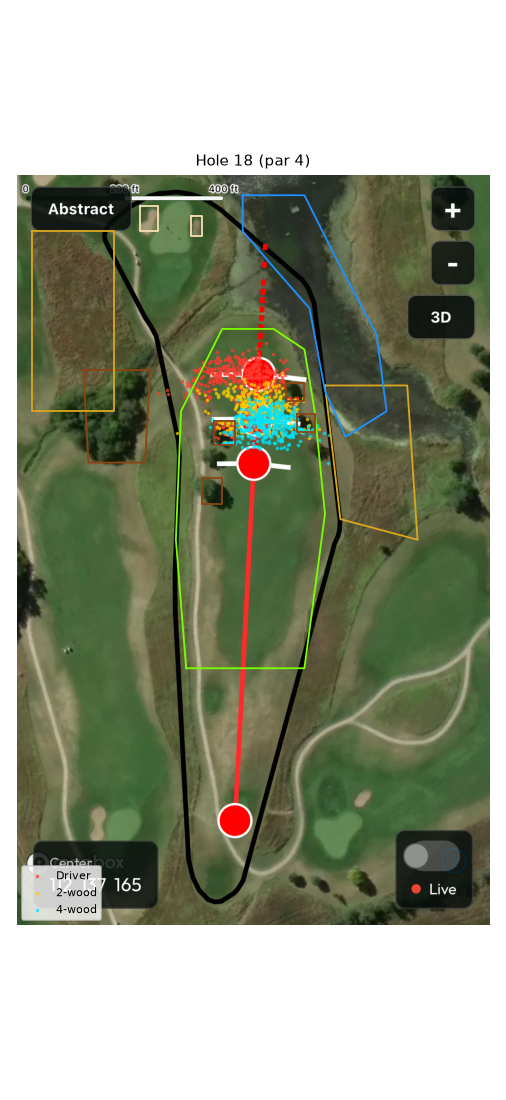
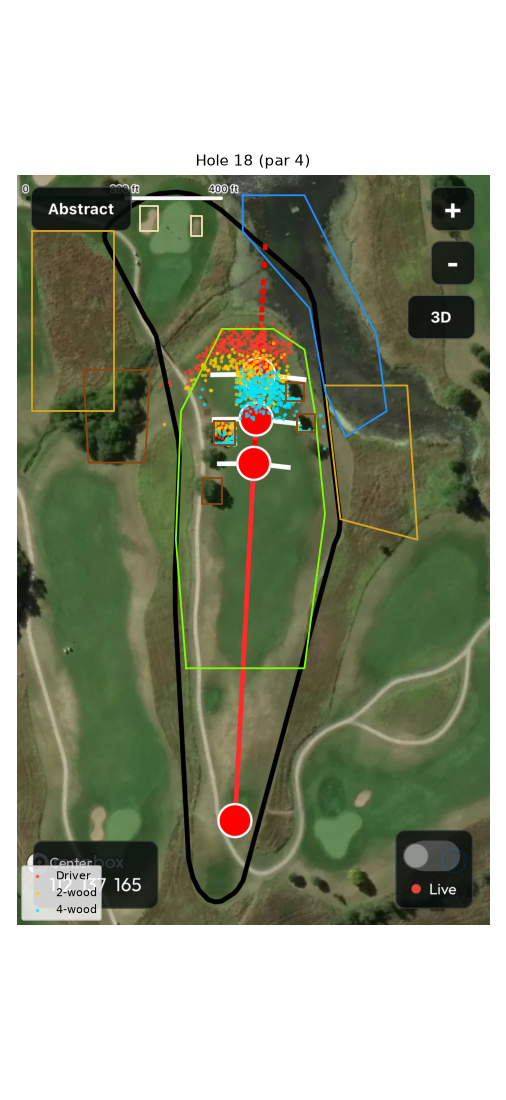
Hole 18: model downhill run (+20 yds roll, stops at trees)
Claude-Session: https://claude.ai/code/session_011rKvZuUcU769YfPfktPsds

Changed region(s): [[0.3557, 0.2782, 0.6522, 0.4327]]

diff --git a/mozingo/tee_strategy.py b/mozingo/tee_strategy.py
@@ -261,7 +261,7 @@ HOLES = {
             ("sand", [(422, 828), (447, 828), (447, 872), (422, 872)]),                   # short-right of green
         ]),
     18: dict(
-        par=4, image="hole18.png", length=407,
+        par=4, image="hole18.png", length=407, extra_roll=20,   # downhill: +10-30 yds of run
         tee=(425, 1795), dot270=(466, 1015), green=(300, 665),   # dogleg left
         zones=[
             ("fairway", [(330, 1500), (560, 1500), (600, 1200), (580, 1000), (560, 880), (500, 840),
@@ -320,7 +320,7 @@ def simulate(hole_no, club, aim_lat=0.0, n=N_SHOTS, z=None):
     # Roll out along the flight line in 2-yd steps: full roll on fairway,
     # ROUGH_ROLL of it in rough, and the ball stops dead in any hazard.
     heading = (pts - tee) / np.linalg.norm(pts - tee, axis=1)[:, None]
-    roll_left = np.full(n, float(total - carry))
+    roll_left = np.full(n, float(total - carry + h.get("extra_roll", 0)))  # e.g. downhill landing
     roll_left[lie == "rough"] *= ROUGH_ROLL
     while True:
         moving = (roll_left > 0) & ~np.isin(lie, HAZARDS)

diff --git a/mozingo/output/stats_report.md b/mozingo/output/stats_report.md
@@ -6,82 +6,96 @@ SG:OTT = tour expected strokes from the tee minus (1 + expected strokes after th
 
 | Hole | Club | Aim | Fairway | Approach | SG:OTT | Diff vs best (95% CI) | Best in % of what-if worlds |
 |---|---|---|---|---|---|---|---|
-| 1 | Driver | +2.5 | 76% | 75 | +0.090 | +0.031 (+0.027 to +0.034) | 10% |
-| 1 | 2-wood | +2.5 | 87% | 93 | +0.112 | +0.008 (+0.006 to +0.010) | 20% |
-| 1 | **4-wood** | +2.5 | 94% | 103 | +0.120 | — | 70% |
-| 2 | Driver | -10.0 | 73% | 59 | +0.077 | +0.030 (+0.027 to +0.033) | 19% |
-| 2 | 2-wood | -10.0 | 83% | 74 | +0.070 | +0.038 (+0.035 to +0.040) | 2% |
-| 2 | **4-wood** | -5.0 | 95% | 81 | +0.107 | — | 79% |
-| 3 | **Driver** | -12.5 | 89% | 219 | +0.177 | — | 98% |
-| 3 | 2-wood | -15.0 | 94% | 238 | +0.067 | +0.110 (+0.109 to +0.111) | 2% |
-| 3 | 4-wood | -17.5 | 98% | 248 | +0.013 | +0.163 (+0.162 to +0.165) | 0% |
-| 4 | **Driver** | +0.0 | 89% | 63 | +0.190 | — | 97% |
-| 4 | 2-wood | +0.0 | 92% | 83 | +0.146 | +0.044 (+0.044 to +0.045) | 2% |
-| 4 | 4-wood | +0.0 | 96% | 92 | +0.132 | +0.059 (+0.058 to +0.060) | 1% |
-| 6 | **Driver** | -5.0 | 96% | 192 | +0.186 | — | 98% |
-| 6 | 2-wood | -10.0 | 96% | 212 | +0.061 | +0.124 (+0.123 to +0.126) | 2% |
-| 6 | 4-wood | -12.5 | 98% | 222 | +0.008 | +0.178 (+0.177 to +0.179) | 0% |
-| 7 | Driver | +2.5 | 74% | 132 | -0.060 | +0.082 (+0.077 to +0.087) | 8% |
-| 7 | 2-wood | +5.0 | 82% | 151 | -0.038 | +0.060 (+0.057 to +0.064) | 6% |
-| 7 | **4-wood** | +7.5 | 94% | 159 | +0.022 | — | 86% |
-| 9 | **Driver** | +2.5 | 92% | 52 | +0.184 | — | 78% |
-| 9 | 2-wood | +5.0 | 96% | 71 | +0.140 | +0.044 (+0.042 to +0.046) | 5% |
-| 9 | 4-wood | +5.0 | 99% | 80 | +0.130 | +0.054 (+0.051 to +0.057) | 17% |
-| 10 | **Driver** | -5.0 | 93% | 91 | +0.152 | — | 77% |
-| 10 | 2-wood | -7.5 | 96% | 111 | +0.120 | +0.032 (+0.031 to +0.033) | 8% |
-| 10 | 4-wood | -7.5 | 98% | 120 | +0.114 | +0.037 (+0.035 to +0.040) | 15% |
-| 12 | **Driver** | +0.0 | 82% | 228 | +0.098 | — | 98% |
-| 12 | 2-wood | -10.0 | 88% | 246 | -0.019 | +0.117 (+0.115 to +0.118) | 2% |
-| 12 | 4-wood | -12.5 | 93% | 255 | -0.054 | +0.151 (+0.150 to +0.153) | 0% |
-| 13 | Driver | +2.5 | 74% | 103 | +0.085 | +0.004 (+0.001 to +0.006) | 41% |
-| 13 | 2-wood | +2.5 | 88% | 119 | +0.082 | +0.006 (+0.004 to +0.008) | 15% |
-| 13 | **4-wood** | +2.5 | 95% | 127 | +0.088 | — | 44% |
+| 1 | Driver | +2.5 | 77% | 77 | +0.092 | +0.024 (+0.021 to +0.027) | 8% |
+| 1 | 2-wood | +2.5 | 87% | 95 | +0.110 | +0.005 (+0.004 to +0.007) | 17% |
+| 1 | **4-wood** | +2.5 | 94% | 104 | +0.115 | — | 75% |
+| 2 | Driver | -10.0 | 74% | 61 | +0.071 | +0.031 (+0.027 to +0.034) | 17% |
+| 2 | 2-wood | -7.5 | 84% | 75 | +0.069 | +0.032 (+0.030 to +0.034) | 5% |
+| 2 | **4-wood** | -5.0 | 95% | 83 | +0.102 | — | 78% |
+| 3 | **Driver** | -12.5 | 89% | 220 | +0.162 | — | 99% |
+| 3 | 2-wood | -17.5 | 94% | 240 | +0.052 | +0.109 (+0.108 to +0.110) | 1% |
+| 3 | 4-wood | -17.5 | 98% | 249 | -0.000 | +0.162 (+0.160 to +0.163) | 0% |
+| 4 | **Driver** | +0.0 | 89% | 65 | +0.184 | — | 97% |
+| 4 | 2-wood | +0.0 | 91% | 84 | +0.140 | +0.044 (+0.043 to +0.044) | 3% |
+| 4 | 4-wood | +0.0 | 96% | 93 | +0.126 | +0.057 (+0.057 to +0.058) | 0% |
+| 6 | **Driver** | -7.5 | 96% | 194 | +0.166 | — | 97% |
+| 6 | 2-wood | -10.0 | 96% | 214 | +0.046 | +0.120 (+0.118 to +0.121) | 3% |
+| 6 | 4-wood | -12.5 | 98% | 224 | -0.006 | +0.172 (+0.170 to +0.173) | 0% |
+| 7 | Driver | +2.5 | 74% | 134 | -0.065 | +0.082 (+0.077 to +0.087) | 8% |
+| 7 | 2-wood | +5.0 | 84% | 152 | -0.033 | +0.050 (+0.047 to +0.054) | 8% |
+| 7 | **4-wood** | +7.5 | 94% | 161 | +0.017 | — | 84% |
+| 9 | **Driver** | +2.5 | 92% | 54 | +0.176 | — | 72% |
+| 9 | 2-wood | +5.0 | 97% | 73 | +0.135 | +0.041 (+0.039 to +0.043) | 5% |
+| 9 | 4-wood | +5.0 | 99% | 82 | +0.125 | +0.051 (+0.049 to +0.054) | 23% |
+| 10 | **Driver** | -5.0 | 93% | 93 | +0.145 | — | 72% |
+| 10 | 2-wood | -7.5 | 96% | 112 | +0.113 | +0.032 (+0.031 to +0.034) | 7% |
+| 10 | 4-wood | -7.5 | 98% | 121 | +0.108 | +0.037 (+0.035 to +0.040) | 21% |
+| 12 | **Driver** | -2.5 | 83% | 231 | +0.073 | — | 97% |
+| 12 | 2-wood | -12.5 | 90% | 250 | -0.030 | +0.103 (+0.101 to +0.105) | 3% |
+| 12 | 4-wood | -12.5 | 93% | 256 | -0.061 | +0.135 (+0.133 to +0.137) | 0% |
+| 13 | Driver | +2.5 | 76% | 105 | +0.082 | +0.001 (-0.001 to +0.003) | 39% |
+| 13 | 2-wood | +2.5 | 88% | 121 | +0.078 | +0.005 (+0.004 to +0.007) | 14% |
+| 13 | **4-wood** | +2.5 | 95% | 129 | +0.084 | — | 47% |
+| 14 | **Driver** | +5.0 | 95% | 166 | +0.165 | — | 99% |
+| 14 | 2-wood | +2.5 | 98% | 185 | +0.072 | +0.093 (+0.093 to +0.094) | 1% |
+| 14 | 4-wood | +2.5 | 99% | 195 | +0.022 | +0.143 (+0.142 to +0.144) | 0% |
+| 16 | Driver | -5.0 | 79% | 138 | +0.026 | +0.005 (+0.003 to +0.008) | 46% |
+| 16 | **2-wood** | -7.5 | 87% | 156 | +0.032 | — | 26% |
+| 16 | 4-wood | -10.0 | 94% | 166 | +0.023 | +0.009 (+0.007 to +0.011) | 28% |
+| 17 | **Driver** | -27.5 | 84% | 60 | +0.106 | — | 84% |
+| 17 | 2-wood | -37.5 | 82% | 81 | +0.041 | +0.065 (+0.062 to +0.068) | 8% |
+| 17 | 4-wood | -40.0 | 84% | 91 | +0.038 | +0.069 (+0.065 to +0.072) | 8% |
+| 17 | Long iron | +30.0 | 93% | 128 | -0.081 | +0.188 (+0.183 to +0.192) | 0% |
+| 17 | Mid iron | +27.5 | 99% | 154 | -0.094 | +0.200 (+0.197 to +0.204) | 0% |
+| 18 | **Driver** | -12.5 | 82% | 104 | +0.072 | — | 84% |
+| 18 | 2-wood | +2.5 | 84% | 131 | -0.017 | +0.089 (+0.083 to +0.095) | 8% |
+| 18 | 4-wood | +7.5 | 90% | 140 | +0.004 | +0.068 (+0.063 to +0.073) | 8% |
 
 ## Hole 13 deep dive
 
-### Driver (aim +2.5 yds) — expected score 3.896, SG:OTT +0.085
+### Driver (aim +2.5 yds) — expected score 3.899, SG:OTT +0.082
 
 | Ends in | Share | Avg yds to centre | Expected strokes from there | Cost vs this club's average |
 |---|---|---|---|---|
-| fairway | 74.4% | 100 | 2.80 | -0.072 |
-| rough | 22.3% | 121 | 3.09 | +0.042 |
-| trees | 3.4% | 111 | 3.79 | +0.030 |
+| fairway | 75.6% | 102 | 2.80 | -0.071 |
+| rough | 20.9% | 123 | 3.09 | +0.040 |
+| trees | 3.4% | 113 | 3.79 | +0.031 |
 
-### 2-wood (aim +2.5 yds) — expected score 3.899, SG:OTT +0.082
-
-| Ends in | Share | Avg yds to centre | Expected strokes from there | Cost vs this club's average |
-|---|---|---|---|---|
-| fairway | 87.6% | 118 | 2.85 | -0.046 |
-| rough | 9.8% | 133 | 3.13 | +0.022 |
-| trees | 2.6% | 120 | 3.79 | +0.023 |
-
-### 4-wood (aim +2.5 yds) — expected score 3.893, SG:OTT +0.088
+### 2-wood (aim +2.5 yds) — expected score 3.903, SG:OTT +0.078
 
 | Ends in | Share | Avg yds to centre | Expected strokes from there | Cost vs this club's average |
 |---|---|---|---|---|
-| fairway | 95.1% | 127 | 2.87 | -0.020 |
-| rough | 3.7% | 139 | 3.15 | +0.010 |
-| trees | 1.1% | 129 | 3.79 | +0.010 |
+| fairway | 88.2% | 120 | 2.85 | -0.044 |
+| rough | 9.2% | 134 | 3.13 | +0.021 |
+| trees | 2.6% | 122 | 3.79 | +0.023 |
+
+### 4-wood (aim +2.5 yds) — expected score 3.897, SG:OTT +0.084
+
+| Ends in | Share | Avg yds to centre | Expected strokes from there | Cost vs this club's average |
+|---|---|---|---|---|
+| fairway | 95.3% | 129 | 2.88 | -0.019 |
+| rough | 3.7% | 140 | 3.15 | +0.010 |
+| trees | 1.0% | 129 | 3.79 | +0.009 |
 
 ### Aim curve (expected score by aim, yds right of the app line)
 
 | Aim | Driver | 2-wood | 4-wood |
 |---|---|---|---|
-| -15 | 4.031 | 4.060 | 4.043 |
-| -10 | 3.961 | 3.982 | 3.963 |
-| -5 | 3.917 | 3.930 | 3.915 |
-| +0 | 3.897 | 3.903 | 3.894 |
-| +5 | 3.901 | 3.900 | 3.894 |
-| +10 | 3.923 | 3.916 | 3.909 |
-| +15 | 3.956 | 3.945 | 3.936 |
+| -15 | 4.038 | 4.063 | 4.035 |
+| -10 | 3.967 | 3.987 | 3.962 |
+| -5 | 3.922 | 3.935 | 3.917 |
+| +0 | 3.900 | 3.907 | 3.898 |
+| +5 | 3.903 | 3.904 | 3.899 |
+| +10 | 3.924 | 3.918 | 3.913 |
+| +15 | 3.957 | 3.947 | 3.940 |
 
 ### What would have to be true for one club to pull clear
 
 | Assumption | Driver | 2-wood | 4-wood |
 |---|---|---|---|
-| As measured | +0.004 | +0.006 | +0.000 |
-| Driver 55 wide (a good driving day) | +0.000 | +0.038 | +0.032 |
-| Everything 20% wider | +0.025 | +0.020 | +0.000 |
-| Firm-ground roll off (soft day) | +0.000 | +0.004 | +0.008 |
-| Rough lets the ball run (60% roll) | +0.000 | +0.006 | +0.000 |
-| Trees left only half as penal | +0.000 | +0.010 | +0.009 |
+| As measured | +0.001 | +0.005 | +0.000 |
+| Driver 55 wide (a good driving day) | +0.000 | +0.039 | +0.034 |
+| Everything 20% wider | +0.024 | +0.020 | +0.000 |
+| Firm-ground roll off (soft day) | +0.000 | +0.005 | +0.009 |
+| Rough lets the ball run (60% roll) | +0.000 | +0.007 | +0.002 |
+| Trees left only half as penal | +0.000 | +0.011 | +0.011 |

diff --git a/mozingo/output/results_table.md b/mozingo/output/results_table.md
@@ -41,6 +41,6 @@
 | 17 | 4 | 4-wood | -40.0 | 91 | 84% | 13% | 0% | 0% | 2% | 0% | 3.834 | +0.069 |
 | 17 | 4 | Long iron | +30.0 | 128 | 93% | 0% | 0% | 0% | 7% | 0% | 3.953 | +0.188 |
 | 17 | 4 | Mid iron | +27.5 | 154 | 99% | 1% | 0% | 0% | 0% | 0% | 3.966 | +0.200 |
-| 18 | 4 | Driver **<- play** | -12.5 | 104 | 82% | 8% | 0% | 10% | 0% | 0% | 3.928 | +0.000 |
-| 18 | 4 | 2-wood | +2.5 | 131 | 84% | 1% | 0% | 15% | 0% | 0% | 4.017 | +0.089 |
-| 18 | 4 | 4-wood | +7.5 | 140 | 90% | 1% | 0% | 9% | 0% | 0% | 3.996 | +0.068 |
+| 18 | 4 | Driver **<- play** | -10.0 | 90 | 68% | 21% | 0% | 11% | 0% | 0% | 3.928 | +0.000 |
+| 18 | 4 | 2-wood | -5.0 | 112 | 76% | 3% | 0% | 21% | 0% | 0% | 4.029 | +0.101 |
+| 18 | 4 | 4-wood | +2.5 | 123 | 80% | 0% | 0% | 19% | 0% | 0% | 4.036 | +0.108 |
